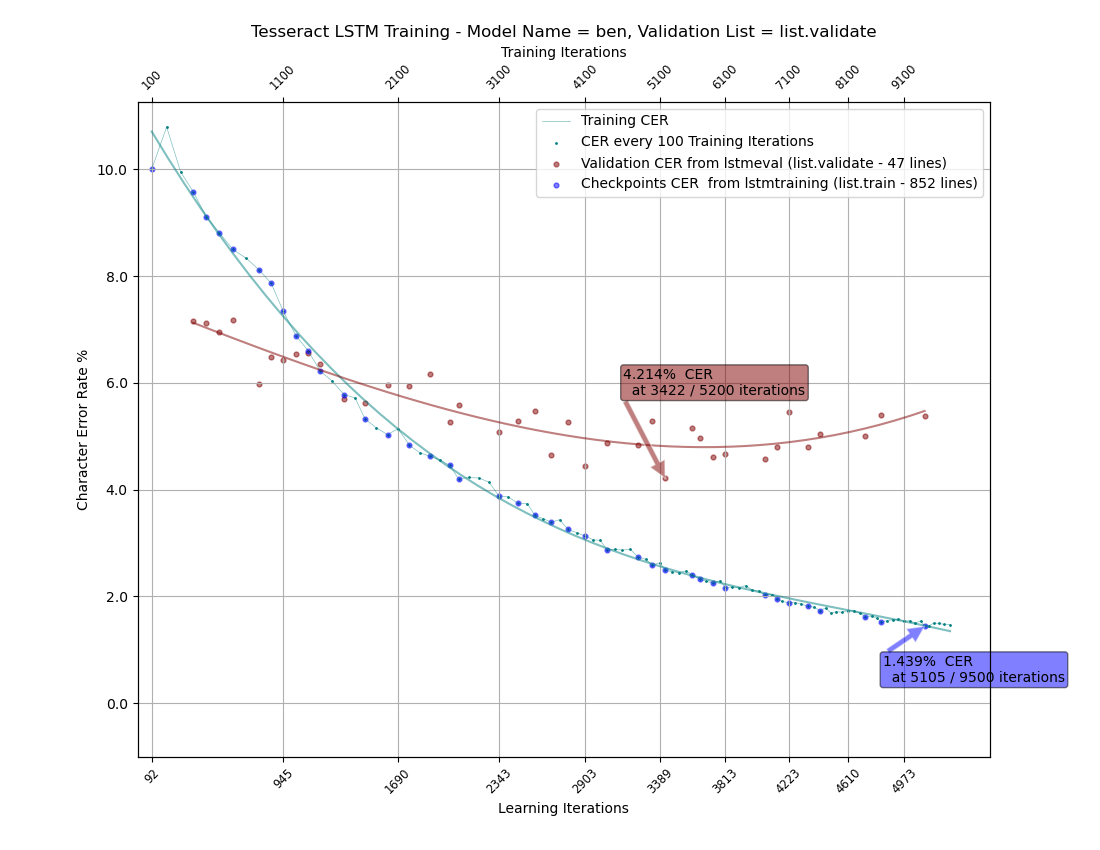
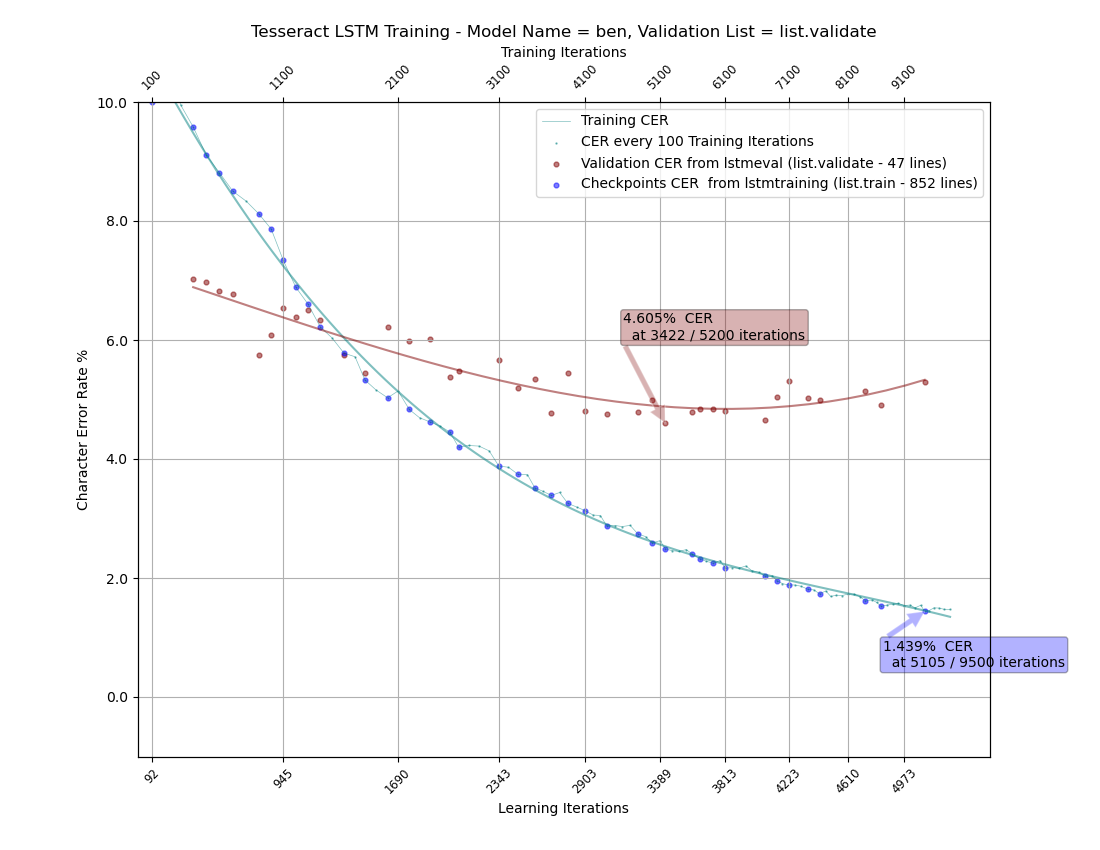
new graphs

diff --git a/plot/plot-eval-validate-cer.py b/plot/plot-eval-validate-cer.py
@@ -10,14 +10,14 @@ from scipy.interpolate import UnivariateSpline
 
 arg_parser = argparse.ArgumentParser(
     '''Creates plot from Training and Evaluation Character Error Rates''')
-
 arg_parser.add_argument('-m', '--model', nargs='?',
                         metavar='MODEL_NAME', help='Model Name', required=True)
-
 arg_parser.add_argument('-v', '--validatelist', nargs='?', metavar='VALIDATELIST',
                         help='Validate List Suffix', required=True)
-
 args = arg_parser.parse_args()
+
+maxticks=10
+maxy=10
 
 ytsvfile = "tmp-" + args.model + "-" + args.validatelist + "-iteration.tsv"
 ctsvfile = "tmp-" + args.model + "-" + args.validatelist + "-checkpoint.tsv"
@@ -30,16 +30,20 @@ cdf = pd.read_csv(ctsvfile,sep='\t', encoding='utf-8')
 edf = pd.read_csv(etsvfile,sep='\t', encoding='utf-8')
 vdf = pd.read_csv(vtsvfile,sep='\t', encoding='utf-8')
 
-t = ydf['TrainingIteration']
-x = ydf['LearningIteration']
-y = ydf['IterationCER']
+ydf = ydf.sort_values('LearningIteration')
+cdf = cdf.sort_values('LearningIteration')
+edf = edf.sort_values('LearningIteration')
+vdf = vdf.sort_values('LearningIteration')
 
+y = ydf['IterationCER']
+x = ydf['LearningIteration']
+t = ydf['TrainingIteration']
 c = cdf['CheckpointCER']
 cx = cdf['LearningIteration']
 ct = cdf['TrainingIteration']
 e = edf['EvalCER']
 ex = edf['LearningIteration']
-et = edf['TrainingIteration'] # Not available in log file
+et = edf['TrainingIteration'] # Not available in training log file
 v = vdf['ValidationCER']
 vx = vdf['LearningIteration']
 vt = vdf['TrainingIteration']
@@ -52,8 +56,6 @@ trainlistlinecount = len(open(trainlistfile).readlines(  ))
 evallistlinecount = len(open(evalistfile).readlines(  ))
 validatelistlinecount = len(open(validatelistfile).readlines(  ))
 
-maxticks=10
-
 def annot_min(boxcolor, xpos, ypos, x, y, z):
     if z.isnull().values.any():
           xmin = x[np.argmin(y)]
@@ -65,8 +67,8 @@ def annot_min(boxcolor, xpos, ypos, x, y, z):
           ymin = y.min()
           boxtext= "{:.3f}%  CER\n  at {:.0f} / {:.0f} iterations" .format(ymin,xmin,tmin)
     ax1.annotate(boxtext, xy=(xmin, ymin), xytext=(xpos,ypos), textcoords='offset points',
-        arrowprops=dict(shrinkA=1, shrinkB=1, fc=boxcolor,alpha=0.5, ec='white', connectionstyle="arc3"),
-        bbox=dict(boxstyle='round,pad=0.2', fc=boxcolor, alpha=0.5))
+        arrowprops=dict(shrinkA=1, shrinkB=1, fc=boxcolor,alpha=0.3, ec='white', connectionstyle="arc3"),
+        bbox=dict(boxstyle='round,pad=0.2', fc=boxcolor, alpha=0.3))
 
 PlotTitle="Tesseract LSTM Training - Model Name = " + args.model + ", Validation List = list." + args.validatelist
 fig = plt.figure(figsize=(11,8.5)) #size is in inches
@@ -82,7 +84,7 @@ ax1.tick_params(axis='x', rotation=45, labelsize='small')
 ax1.locator_params(axis='x', nbins=maxticks)  # limit ticks on x-axis
 ax1.grid(True)
 
-ax1.scatter(x, y, c='teal', s=1, label='CER every 100 Training Iterations')
+ax1.scatter(x, y, c='teal', alpha=0.5, s=0.5, label='CER every 100 Training Iterations')
 ax1.plot(x, y, 'teal', alpha=0.5, linewidth=0.5, label='Training CER')
 
 if not v.dropna().empty: # not NaN or empty
@@ -99,7 +101,6 @@ if not e.dropna().empty: # not NaN or empty
     str(evallistlinecount) +' lines)', alpha=0.5)
 	annot_min('magenta',-30,30,ex,e,et)
 
-
 if not c.dropna().empty: # not NaN or empty
 	ax1.scatter(cx, c, c='blue', s=12,
     label='Checkpoints CER  from lstmtraining (list.train - ' +
@@ -107,27 +108,17 @@ if not c.dropna().empty: # not NaN or empty
 	annot_min('blue',-30,-40,cx,c,ct)
 
 ax1.set_xlim([0,None])
-ax1.set_ylim([-1,None])
+ax1.set_ylim([-1,maxy])
 
-# Best fit curve for training data every 100 iterations, using spline
-spliney = UnivariateSpline(x, y)
-yxs = np.linspace(x.min(), x.max(), 50)
-ysy = spliney(yxs)
-ax1.plot(yxs, ysy, 'teal', alpha=0.5)
+def fit_spline(splinex, spliney, splinedf, splines, splinecolor):
+	if not spliney.dropna().empty: 
+		uni = UnivariateSpline(splinex, spliney, s=splines)
+		yxs = np.linspace(splinex.min(), splinex.max(), len(splinedf.index))
+		ax1.plot(yxs, uni(yxs), splinecolor, alpha=0.5)
 
-# Best fit curve for eval data using spline
-if not e.dropna().empty: # not NaN or empty
-	splinee = UnivariateSpline(ex, e)
-	exs = np.linspace(ex.min(), ex.max(), 50)
-	ese = splinee(exs)
-	ax1.plot(exs, ese, 'magenta', alpha=0.5)
-
-# Best fit curve for validation data using spline
-if not v.dropna().empty: # not NaN or empty
-	splinev = UnivariateSpline(vx, v)
-	vxs = np.linspace(vx.min(), vx.max(), 50)
-	vsv = splinev(vxs)
-	ax1.plot(vxs, vsv, 'maroon', alpha=0.5)
+fit_spline(x, y, ydf, 500, 'teal')
+fit_spline(ex, e, edf, 5, 'magenta')
+fit_spline(vx, v, vdf, 6, 'maroon')
 
 plt.title(label=PlotTitle)
 plt.legend(loc='upper right')
